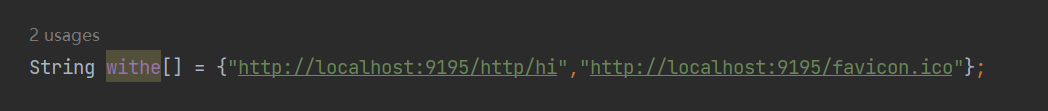
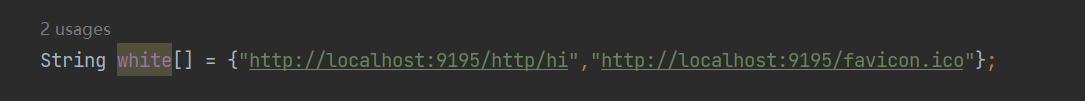
feat:Make an Apache Shenyu SSO authentication plugin based on Casdoor

Changed region(s): [[0.0305, 0.4158, 0.9466, 0.7723], [0.0305, 0.2079, 0.1221, 0.4158]]

diff --git a/shenyu-spring-boot-starter-plugin-auth/src/main/java/org/apache/shenyu/springboot/starter/plugin/auth/AuthPluginConfiguration.java b/shenyu-spring-boot-starter-plugin-auth/src/main/java/org/apache/shenyu/springboot/starter/plugin/auth/AuthPluginConfiguration.java
@@ -1,3 +1,16 @@
+// Copyright 2022 The casdoor Authors. All Rights Reserved.
+//
+// Licensed under the Apache License, Version 2.0 (the "License");
+// you may not use this file except in compliance with the License.
+// You may obtain a copy of the License at
+//
+//      http://www.apache.org/licenses/LICENSE-2.0
+//
+// Unless required by applicable law or agreed to in writing, software
+// distributed under the License is distributed on an "AS IS" BASIS,
+// WITHOUT WARRANTIES OR CONDITIONS OF ANY KIND, either express or implied.
+// See the License for the specific language governing permissions and
+// limitations under the License.
 package org.apache.shenyu.springboot.starter.plugin.auth;
 
 import org.apache.shenyu.plugin.api.ShenyuPlugin;

diff --git a/shenyu-plugin-auth/src/main/java/org/apache/shenyu/plugin/auth/AuthPlugin.java b/shenyu-plugin-auth/src/main/java/org/apache/shenyu/plugin/auth/AuthPlugin.java
@@ -1,3 +1,16 @@
+// Copyright 2022 The casdoor Authors. All Rights Reserved.
+//
+// Licensed under the Apache License, Version 2.0 (the "License");
+// you may not use this file except in compliance with the License.
+// You may obtain a copy of the License at
+//
+//      http://www.apache.org/licenses/LICENSE-2.0
+//
+// Unless required by applicable law or agreed to in writing, software
+// distributed under the License is distributed on an "AS IS" BASIS,
+// WITHOUT WARRANTIES OR CONDITIONS OF ANY KIND, either express or implied.
+// See the License for the specific language governing permissions and
+// limitations under the License.
 package org.apache.shenyu.plugin.auth;
 
 import org.apache.shenyu.common.enums.PluginEnum;

diff --git a/README.md b/README.md
@@ -1,4 +1,4 @@
-# shenyu-sso
+# shenyu-plugin-auth
 
 
 
@@ -30,9 +30,9 @@ you need change the parameter to your casdoor parameter in shenyu-plugin-auth/ap
 
 ![dependency](static/img/dependency.png)
 
-### Step3.Withelist Configure
+### Step3.Whitelist Configure
 
-You can add the witheList in shenyu-plugin-auth/org/apache/shenyu/plugin/auth/AuthPlugin
+You can add the whiteList in shenyu-plugin-auth/org/apache/shenyu/plugin/auth/AuthPlugin
 
 ![white](static/img/white.png)
 
